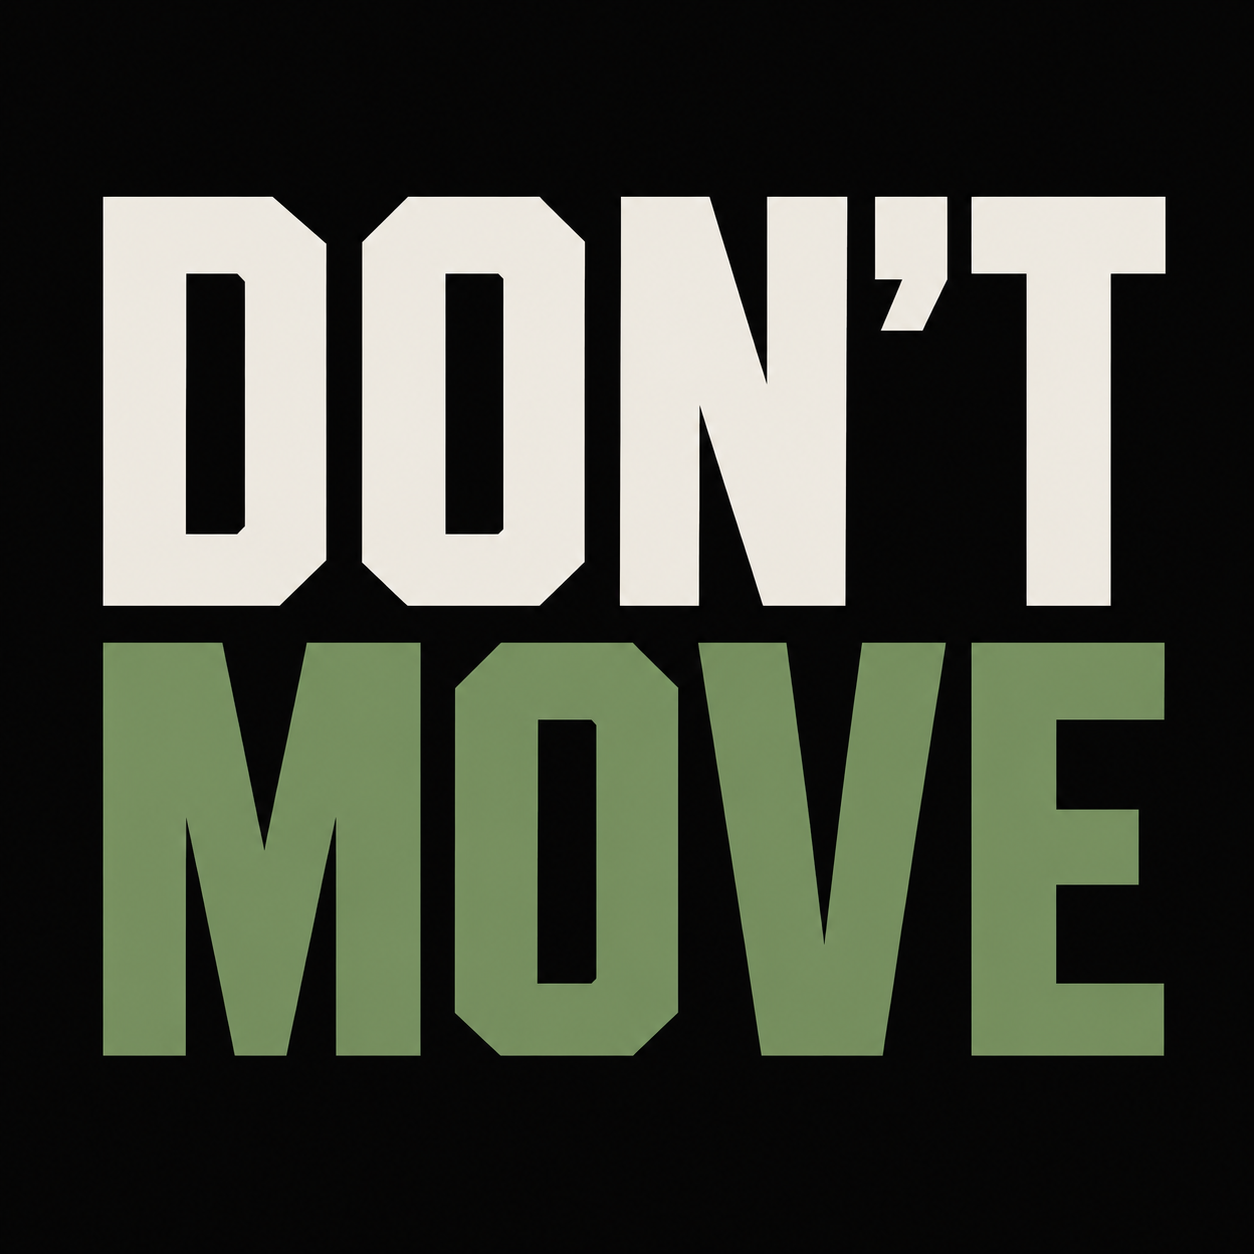
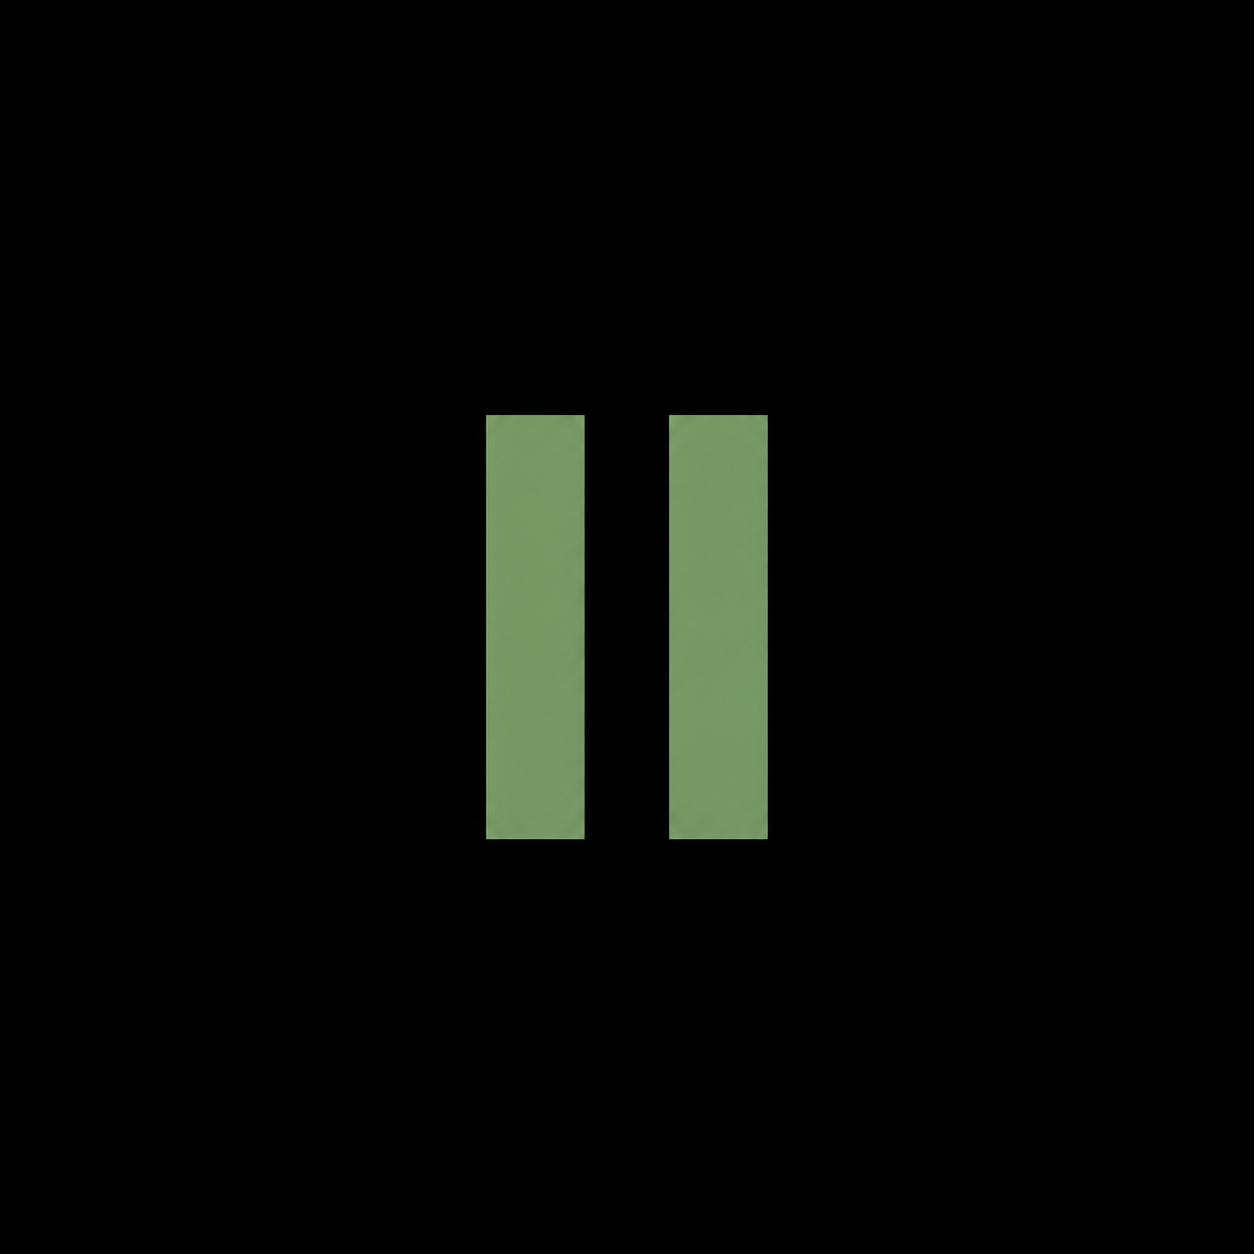
Rebrand from Don't Move to Pause; add Aptabase analytics
- New app icon (green pause bars on black, matches existing splash
  bg exactly - no color fix needed)
- app.json: display name, slug, and scheme renamed to Pause.
  Bundle identifier/Android package deliberately kept as
  com.bbabiker.dontmove - changing it would require updating the
  Google iOS OAuth client's registered bundle ID and Supabase's Apple
  provider authorized client IDs, both invisible to users and not
  worth the churn for a pre-launch app
- Renamed all in-app text (Home wordmark, Share Card wordmark,
  Settings about text, local notification title) and AsyncStorage key
  prefixes (@dontmove/ -> @pause/) - the latter means existing local
  best score/run history won't carry over post-update, acceptable
  pre-launch
- CLAUDE.md/PHASES.md fully renamed, including reframing the intro's
  "Don't move. That's the entire game." wordplay as "Pause. That's the
  entire game." - same structure, same joke, new name
- Add Aptabase analytics (free tier, privacy-first, no ad IDs, per-app
  dashboard) tracking the funnel CLAUDE.md's Success Metrics actually
  cares about: app launch, play started, run completed, play again,
  shared. Sentry and PostHog dropped per explicit direction - no
  separate crash-reporting SDK for now

diff --git a/src/screens/ResultsScreen.tsx b/src/screens/ResultsScreen.tsx
@@ -23,6 +23,7 @@ import { getResultMessage } from '../lib/resultMessages';
 import { hapticPersonalBest } from '../lib/haptics';
 import { tapFeedback } from '../lib/feedback';
 import { playSound } from '../lib/sound';
+import { trackPlayAgain, trackShared } from '../lib/analytics';
 import { colors, fontFamily, spacing, type } from '../theme/colors';
 
 type Props = NativeStackScreenProps<RootStackParamList, 'Results'>;
@@ -91,6 +92,7 @@ export function ResultsScreen({ navigation, route }: Props) {
 
   const handlePlayAgain = () => {
     tapFeedback();
+    trackPlayAgain();
     navigation.replace('Play');
   };
 
@@ -109,6 +111,7 @@ export function ResultsScreen({ navigation, route }: Props) {
       const uri = await captureRef(shareCardRef, { format: 'png', quality: 1 });
       const fileUri = uri.startsWith('file://') ? uri : `file://${uri}`;
       await Sharing.shareAsync(fileUri, { mimeType: 'image/png', dialogTitle: 'Share your score' });
+      trackShared();
     } catch {
       Alert.alert('Share failed', 'Something went wrong creating your share image.');
     } finally {

diff --git a/src/screens/PlayScreen.tsx b/src/screens/PlayScreen.tsx
@@ -10,6 +10,7 @@ import { saveRun } from '../lib/storage';
 import { submitRun } from '../lib/runSync';
 import { fetchMyStats } from '../lib/stats';
 import { scheduleComeBackReminder } from '../lib/notifications';
+import { trackPlayStarted, trackRunCompleted } from '../lib/analytics';
 import { SeismographTrace } from '../components/SeismographTrace';
 import { hapticCountdownTick, hapticGo, hapticReleasedEarly } from '../lib/haptics';
 import { tapFeedback } from '../lib/feedback';
@@ -172,6 +173,7 @@ export function PlayScreen({ navigation }: Props) {
     // Pushes the "come back" local reminder another 24h out from now,
     // rather than leaving whatever was scheduled at launch/last run.
     scheduleComeBackReminder();
+    trackRunCompleted(score, isPersonalBest);
 
     navigation.replace('Results', {
       score,
@@ -187,6 +189,7 @@ export function PlayScreen({ navigation }: Props) {
     heldRef.current = true;
     setCancelReason(null);
     setPhase('countdown');
+    trackPlayStarted();
   };
 
   const handlePressOut = () => {

diff --git a/src/lib/analytics.ts b/src/lib/analytics.ts
@@ -1,0 +1,32 @@
+import Aptabase, { trackEvent } from '@aptabase/react-native';
+
+// Aptabase over Sentry/PostHog: free tier, privacy-first (no ad IDs, no
+// cross-app tracking), and a per-app dashboard the developer can log into
+// directly - see PHASES.md Phase 8. Deliberately lightweight: only the
+// funnel CLAUDE.md's Success Metrics actually cares about (launch, play,
+// result, share or replay), not general-purpose event tracking.
+const APP_KEY = 'A-US-7325781948';
+
+export function initAnalytics(): void {
+  Aptabase.init(APP_KEY);
+}
+
+export function trackAppLaunched(): void {
+  trackEvent('app_launched');
+}
+
+export function trackPlayStarted(): void {
+  trackEvent('play_started');
+}
+
+export function trackRunCompleted(score: number, isPersonalBest: boolean): void {
+  trackEvent('run_completed', { score, isPersonalBest });
+}
+
+export function trackPlayAgain(): void {
+  trackEvent('play_again');
+}
+
+export function trackShared(): void {
+  trackEvent('shared');
+}

diff --git a/App.tsx b/App.tsx
@@ -14,6 +14,7 @@ import { RootNavigator } from './src/navigation/RootNavigator';
 import { loadSettings } from './src/lib/settings';
 import { configureAudio } from './src/lib/sound';
 import { requestNotificationPermissionOnLaunch } from './src/lib/notifications';
+import { initAnalytics, trackAppLaunched } from './src/lib/analytics';
 
 // Keeps the native splash (icon.png, full-width, pure black bg - see
 // app.json's expo-splash-screen config) on screen until fonts are ready,
@@ -53,6 +54,8 @@ export default function App() {
     // "nothing at launch": asked immediately so it's resolved before it'd
     // otherwise interrupt gameplay later.
     requestNotificationPermissionOnLaunch();
+    initAnalytics();
+    trackAppLaunched();
   }, []);
 
   useEffect(() => {

diff --git a/src/screens/HomeScreen.tsx b/src/screens/HomeScreen.tsx
@@ -52,9 +52,7 @@ export function HomeScreen({ navigation }: HomeScreenProps) {
 
   return (
     <View style={[styles.container, { paddingTop: insets.top + spacing.xl }]}>
-      <Text style={styles.wordmark}>
-        DON'T <Text style={styles.wordmarkAccent}>MOVE</Text>
-      </Text>
+      <Text style={styles.wordmark}>PAUSE</Text>
 
       <View style={styles.center}>
         <Text style={styles.bestScoreLabel}>BEST SCORE</Text>
@@ -90,9 +88,6 @@ const styles = StyleSheet.create({
     fontSize: type.label,
     fontWeight: '700',
     letterSpacing: 3,
-  },
-  wordmarkAccent: {
-    color: colors.accentGreen,
   },
   center: {
     flex: 1,

diff --git a/src/screens/AccountScreen.tsx b/src/screens/AccountScreen.tsx
@@ -28,7 +28,10 @@ function formatProvider(provider: string | null): string {
 
 const BENEFITS = ['Appear on the leaderboard', 'Sync progress across devices'];
 
-// TODO(rebrand): update once the Pause landing page domain is live.
+// The Vercel project was renamed to pause-landing, but the short
+// pause-landing.vercel.app subdomain is already claimed by an unrelated
+// project, so Vercel kept this project on its original domain - update once
+// a real custom domain (e.g. pause.bbabiker.com) is wired up.
 const PRIVACY_POLICY_URL = 'https://dont-move-landing.vercel.app/privacy/';
 
 export function AccountScreen({ navigation }: Props) {

diff --git a/src/screens/SettingsScreen.tsx b/src/screens/SettingsScreen.tsx
@@ -99,7 +99,7 @@ export function SettingsScreen({ navigation }: Props) {
         </View>
 
         <View style={styles.aboutBlock}>
-          <Text style={styles.aboutText}>Don't Move. Hold your phone as still as possible.</Text>
+          <Text style={styles.aboutText}>Pause. Hold your phone as still as possible.</Text>
           <Text style={styles.versionText}>
             VERSION {Constants.expoConfig?.version ?? '0.1.0'}
           </Text>

diff --git a/src/lib/accountMigration.ts b/src/lib/accountMigration.ts
@@ -2,7 +2,7 @@ import AsyncStorage from '@react-native-async-storage/async-storage';
 import { getRunHistory } from './storage';
 import { supabase } from './supabase';
 
-const MIGRATED_KEY = '@dontmove/localHistoryMigrated';
+const MIGRATED_KEY = '@pause/localHistoryMigrated';
 
 // Anonymous-to-real sign-in (Apple/Google) upgrades the same auth user via
 // identity linking, so it keeps the same auth.uid() - runs already synced by

diff --git a/src/lib/settings.ts b/src/lib/settings.ts
@@ -1,7 +1,7 @@
 import AsyncStorage from '@react-native-async-storage/async-storage';
 
-const SOUND_KEY = '@dontmove/soundEnabled';
-const HAPTICS_KEY = '@dontmove/hapticsEnabled';
+const SOUND_KEY = '@pause/soundEnabled';
+const HAPTICS_KEY = '@pause/hapticsEnabled';
 
 // Read synchronously by haptics.ts and sound.ts on every trigger, so the
 // toggle in Settings takes effect immediately without an AsyncStorage round

diff --git a/src/lib/notifications.ts b/src/lib/notifications.ts
@@ -51,7 +51,7 @@ export async function scheduleComeBackReminder(): Promise<void> {
   await Notifications.scheduleNotificationAsync({
     identifier: COME_BACK_REMINDER_ID,
     content: {
-      title: "Don't Move",
+      title: 'Pause',
       body: 'Think you can still hold it steady? Come find out.',
     },
     trigger: {

diff --git a/src/lib/storage.ts b/src/lib/storage.ts
@@ -1,7 +1,7 @@
 import AsyncStorage from '@react-native-async-storage/async-storage';
 
-const BEST_SCORE_KEY = '@dontmove/bestScore';
-const RUN_HISTORY_KEY = '@dontmove/runHistory';
+const BEST_SCORE_KEY = '@pause/bestScore';
+const RUN_HISTORY_KEY = '@pause/runHistory';
 const MAX_HISTORY = 50;
 
 export interface StoredRun {

diff --git a/src/components/ShareCard.tsx b/src/components/ShareCard.tsx
@@ -41,7 +41,7 @@ export function ShareCard({
 }: ShareCardProps) {
   return (
     <View style={styles.card}>
-      <Text style={styles.wordmark}>DON'T MOVE</Text>
+      <Text style={styles.wordmark}>PAUSE</Text>
 
       <View style={styles.center}>
         <View style={styles.identity}>
